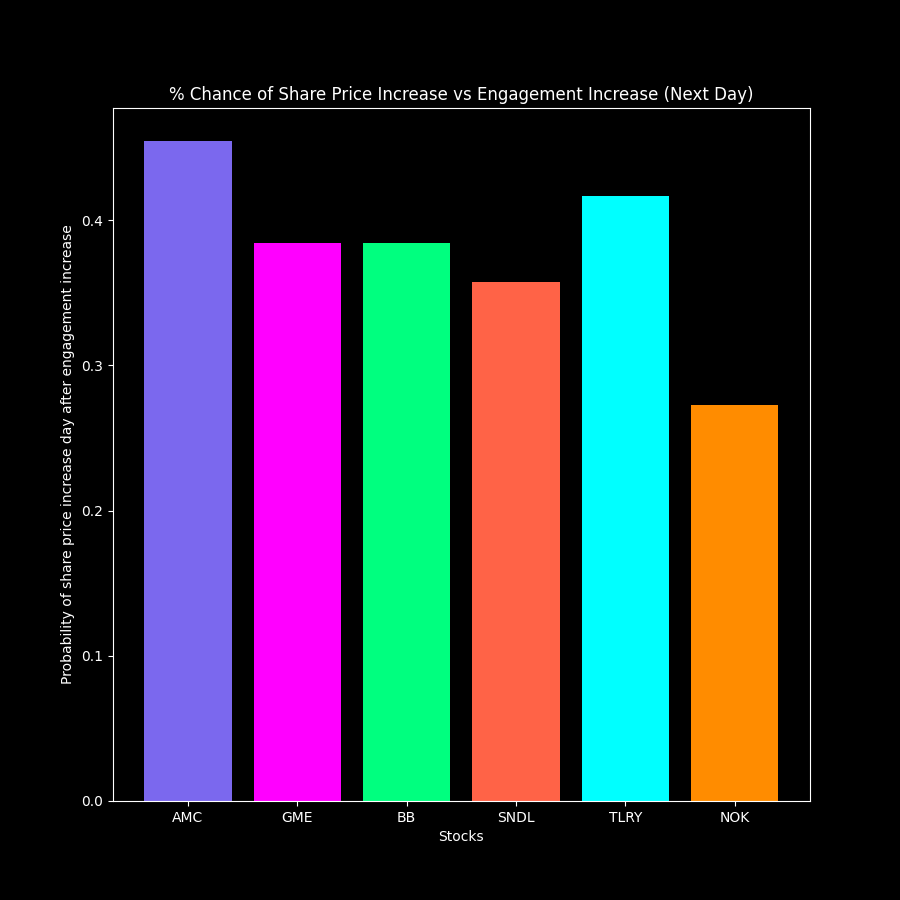
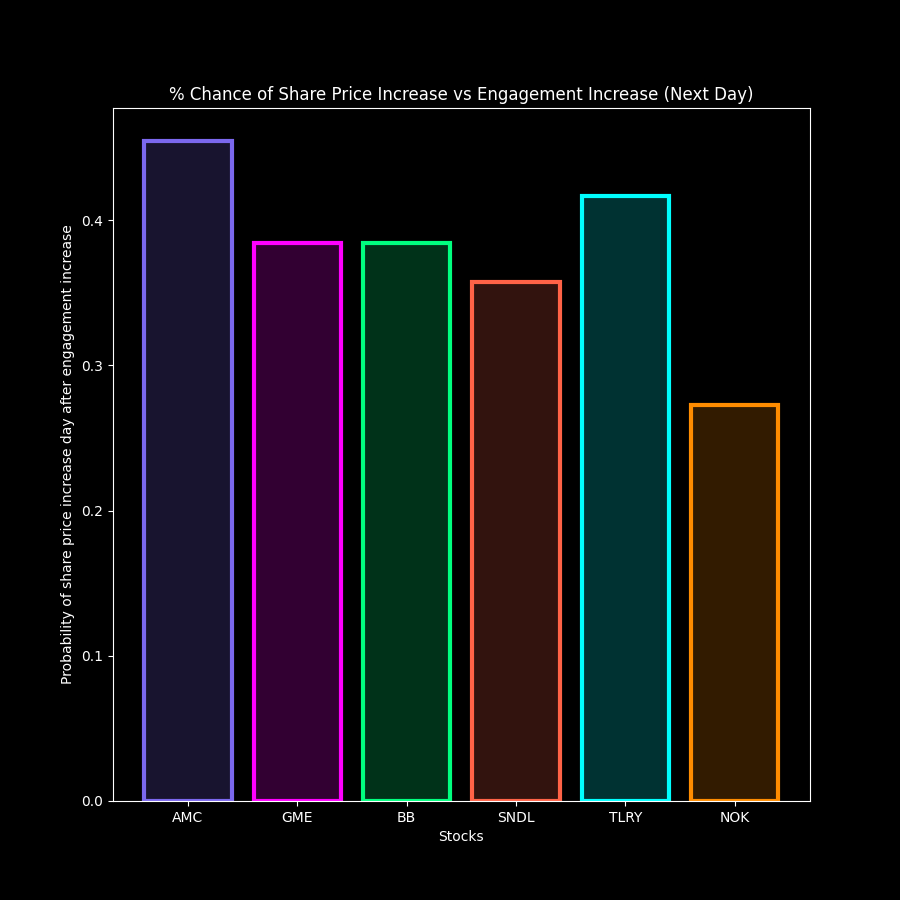
improved bar graphs

diff --git a/src/process.py b/src/process.py
@@ -267,7 +267,7 @@ def calc_predictions(dict1, dict2, key):
 			return 0
 		if d[0] == key:
 			idx_of_key = [i for i, e in enumerate(list(dict2_items)) if e[0] == key][0]
-			if list(dict1_items)[i][1] > 0 and list(dict2_items)[idx_of_key][1] > 0:
+			if list(dict1_items)[i][1] > 0 and list(dict2_items)[idx_of_key+1][1] > 0:
 				return 1
 			else:
 				return 0
@@ -306,7 +306,7 @@ def percent_correct(eng_data, stock_data, ticker):
 		if k in stock_dict:
 			predictions += calc_predictions(eng_dict, stock_dict, k) 
 
-	positive_days = number_of_up_days(percent_change_eng_y)
+	positive_days = number_of_up_days(percent_change_stock_y)
 
 	return ticker, (predictions/positive_days)
 
@@ -365,8 +365,8 @@ def display_eng():
 	plt.style.use("dark_background")
 	fig, ax = plt.subplots(figsize=(9, 9))
 
-	plt.bar(list(predictions.keys()), list(predictions.values()), color = colors,, edg alpha = .2)
-	plt.bar(list(predictions.keys()), list(predictions.values()), color = edgecolor = ["mediumslateblue", 'fuchsia', 'springgreen', 'tomato', 'cyan', 'darkorange'])
+	plt.bar(list(predictions.keys()), list(predictions.values()), color = 'black', edgecolor = colors, zorder = 1, linewidth = 3)
+	plt.bar(list(predictions.keys()), list(predictions.values()), color = colors, alpha = 0.2, zorder = 2)
 	plt.title(f"% Chance of Share Price Increase vs Engagement Increase (Next Day)")
 	plt.xlabel("Stocks")
 	plt.ylabel("Probability of share price increase day after engagement increase")
